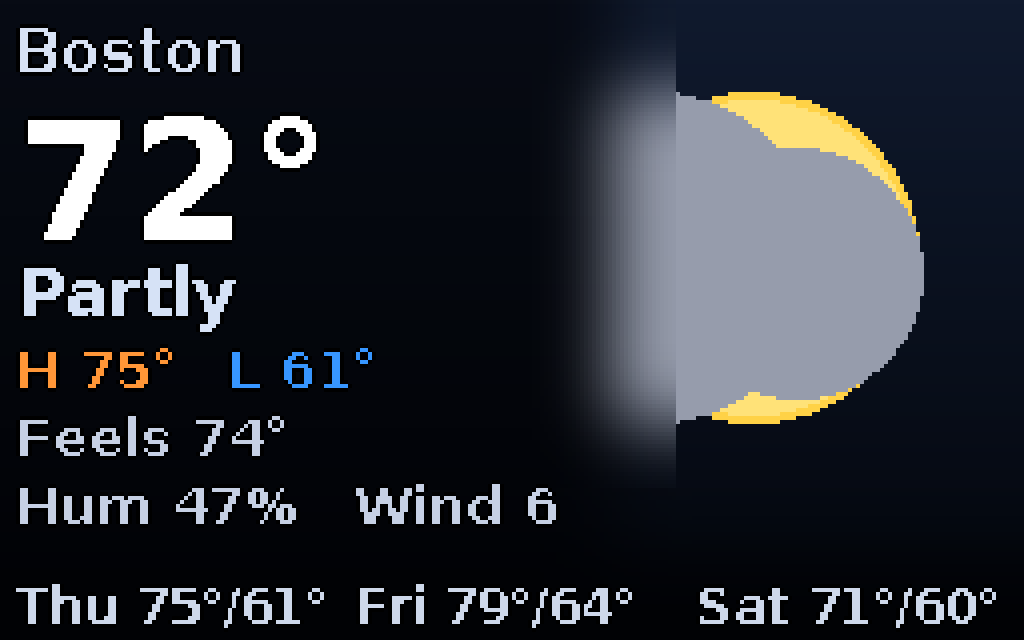
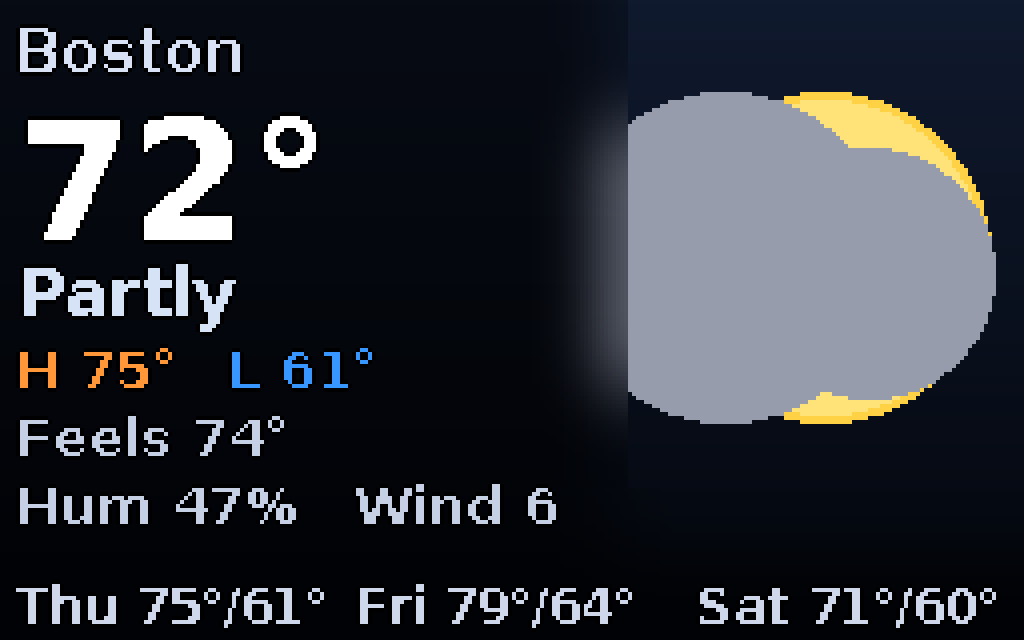
2.10.12-beta.11 — Weather LCD: keep the sun/moon disc out of the info-column blur
The celestial disc's left edge crossed into the blurred info-column scrim, so part of the sun
looked smeared. Compute the scrim geometry (left_w, blur_r) up front, place the disc fully right
of the scrim's feathered edge, and cap the column blur so it stops short of the disc's left edge.
gtext branch only (LED byte-identical, verified 4x). Weather tile regenerated.

Changed region(s): [[0.5625, 0.0938, 1.0, 0.7188]]

diff --git a/apps/weather/app.py b/apps/weather/app.py
@@ -748,8 +748,18 @@ def _cv_weather_gtext(canvas, wx, unit, show_city, night, sky, frame):
         r = max(0.0, min(1.0, y / max(1, H - 1)))
         return tuple(int(top_sky[k] + (bot_sky[k] - top_sky[k]) * r) for k in range(3))
 
+    # The info-column scrim geometry, computed up front so the celestial disc can be kept clear
+    # of it — a sun/moon whose edge crossed into the blurred column looked smeared.
+    pad = 4
+    left_w = int(W * 0.60)
+    strip_h = max(16, int(H * 0.13))
+    fy = H - strip_h                                    # the forecast strip's top
+    blur_r = max(2, int(H * 0.05))
+
     # --- celestial: a crisp sun (day) or moon + colored stars (night); same geometry as PIL ----
-    icx, icy, ir = W - int(H * 0.42) - 1, int(H * 0.40), max(4, int(H * 0.26))
+    icy, ir = int(H * 0.40), max(4, int(H * 0.26))
+    # Sit the disc fully right of the scrim's feathered edge so no part of it gets blurred.
+    icx = max(W - int(H * 0.42) - 1, left_w + ir + blur_r + pad)
     if night:
         stars = [(0.06, 0.18, (200, 210, 255)), (0.16, 0.42, (255, 240, 200)),
                  (0.30, 0.12, (180, 220, 255)), (0.40, 0.55, (255, 220, 220)),
@@ -802,16 +812,13 @@ def _cv_weather_gtext(canvas, wx, unit, show_city, night, sky, frame):
     # GaussianBlur darken). The scene must never crowd the text, so dim the info column + forecast
     # strip toward the dark sky — the app "blacks out the info column", and an intruding cloud
     # vanishes behind it — then a box blur feathers the dimmed panels into the bright scene.
-    pad = 4
-    left_w = int(W * 0.60)
-    strip_h = max(16, int(H * 0.13))
-    fy = H - strip_h                                    # the forecast strip's top
-    blur_r = max(2, int(H * 0.05))
     dim_top = tuple(int(c * 0.45) for c in top_sky)
     dim_bot = tuple(int(c * 0.45) for c in bot_sky)
     canvas.gradient(0, 0, left_w, H, dim_top, dim_bot, 'v')             # dim the left info column
     canvas.rect(0, fy - 2, W, H - (fy - 2), color=dim_bot, fill=True)   # dim the forecast strip
-    canvas.blur(0, 0, min(W, left_w + 2 * blur_r), fy - 2, blur_r)      # feather the column edge
+    # feather the column edge — but never blur the celestial disc (stop short of its left edge)
+    blur_right = min(left_w + blur_r, icx - ir - blur_r)
+    canvas.blur(0, 0, max(1, blur_right), fy - 2, blur_r)
     sb = max(0, fy - 2 - 2 * blur_r)
     canvas.blur(0, sb, W, H - sb, blur_r)                               # feather the strip edge
     colw = left_w - 2 * pad

diff --git a/addon-beta/CHANGELOG.md b/addon-beta/CHANGELOG.md
@@ -3,6 +3,11 @@
 Home Assistant shows this when an update is available. Newest first; the version headings
 have to match the add-on's `version`, or the update notice comes up blank.
 
+## 2.10.12-beta.11
+
+- **Weather sun fix (LCD)** — the sun/moon disc no longer sits partly under the info-column
+  blur (it looked smeared); the disc is placed clear of the scrim and the blur stops short of it.
+
 ## 2.10.12-beta.10
 
 - **Weather & Dashboard draw on-device now (LCD)** — both redraw their whole tall-panel scene
